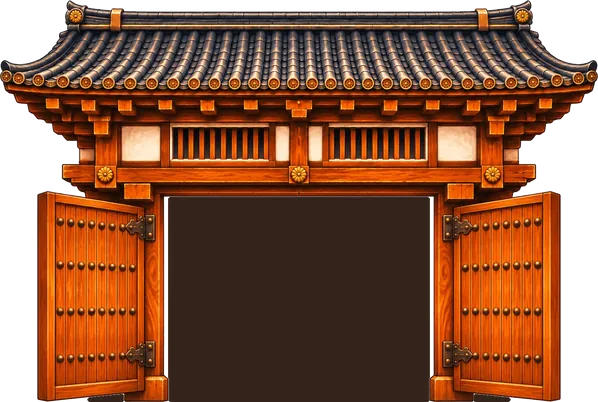
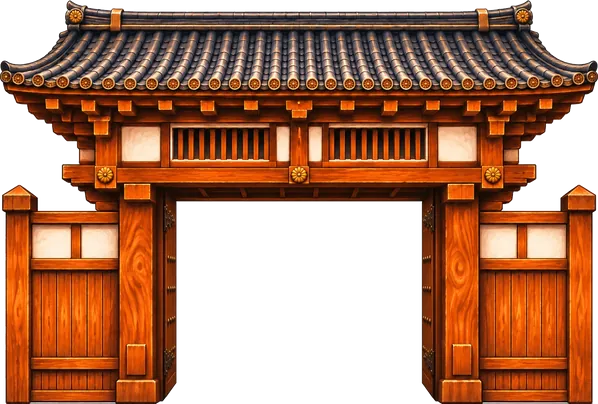
城の門が、奥へ開くアニメーションにする
- 門の絵を、奥へ開く絵に替えた（castlegate-open）。半分開いた絵（castlegate-half）を足した
- 印が全部そろったあと、はじめて門の前に来たとき（暗転・話・演出が終わってから）、閉 → 半分 → 開、と開く。1 周に 1 回
- 門の中（絵の透明なところ）に、城の中の景色（空・遠くの天守・奥へ続く道）を描く
- 音のきっかけ gateopen（門が開きはじめた）を足した

Claude-Session: https://claude.ai/code/session_01U9i96bNyCLMGvYMbYha5MW

diff --git a/src/ui/SekishoTown.tsx b/src/ui/SekishoTown.tsx
@@ -55,7 +55,7 @@ export interface SekishoTownProps {
   onSave?: (save: TownSave) => void
   /**
    * 建物・木などを、絵（画像）に差し替える。pieces は、種類（Piece.kind。'shop'・'inn'・'kura' など）→ 絵の URL。
-   * 書いた種類だけが絵になり、ほかは部品が形から描く。城の門が開いた絵は 'castlegate-open'。
+   * 書いた種類だけが絵になり、ほかは部品が形から描く。城の門が開いた絵は 'castlegate-open'、半分開いた絵は 'castlegate-half'。
    * 関所の絵は 'gate-open'（開いている）・'gate-locked'（まだ開かない）・'gate-cleared'（こえた）。
    * pixelated を true にすると、ドット絵をぼかさずに大きくする
    */
@@ -138,7 +138,7 @@ export function SekishoTown({
   // ─── ゲームの今（描くたびに変わるものは ref） ───
   const worldRef = useRef<World>({ area: town.start.area, player: newActor(town.start.x) })
   const input = useRef({ keys: new Set<string>(), stick: { x: 0, y: 0 }, act: false, jump: false })
-  const fx = useRef({ t: 0, fade: 0, emote: '', emoteUntil: 0, bang: 0, blockedAt: -9, stepIn: 0, stride: 0 })
+  const fx = useRef({ t: 0, fade: 0, emote: '', emoteUntil: 0, bang: 0, blockedAt: -9, stepIn: 0, stride: 0, gateAt: -1 })
   const [areaId, setAreaId] = useState(town.start.area)
   const [near, setNear] = useState<{ id: string; kind: string } | null>(null)
   const [dialog, setDialog] = useState<{ lines: Line[]; onEnd?: () => void } | null>(null)
@@ -421,8 +421,8 @@ export function SekishoTown({
     }
     return { images, pixelated: art?.pixelated }
   }, [art, artImages])
-  const live = useRef({ sound, soundEnter, pieceArt, gates, npcs, complete, finaleDone, course, lap, images, cast, labels, town, startFinale, reduced: false })
-  live.current = { ...live.current, sound, soundEnter, pieceArt, gates, npcs, complete, finaleDone, course, lap, images, cast, labels, town, startFinale }
+  const live = useRef({ addFlag, sound, soundEnter, pieceArt, gates, npcs, complete, finaleDone, course, lap, images, cast, labels, town, startFinale, reduced: false })
+  live.current = { ...live.current, addFlag, sound, soundEnter, pieceArt, gates, npcs, complete, finaleDone, course, lap, images, cast, labels, town, startFinale }
 
   useEffect(() => {
     const m = window.matchMedia?.('(prefers-reduced-motion: reduce)')
@@ -461,8 +461,9 @@ export function SekishoTown({
     ro.observe(root)
     fit()
 
-    const backdropOf = (area: Area, gateOpen: boolean) => {
-      const key = `${area.id}|${gateOpen}`
+    const backdropOf = (area: Area, gate: 0 | 1 | 2) => {
+      const gateOpen = gate === 2
+      const key = `${area.id}|${gate}`
       let b = backdrops.current.get(key)
       if (!b) {
         b = document.createElement('canvas')
@@ -472,7 +473,7 @@ export function SekishoTown({
         b.height = Math.ceil(VIEW_H * k)
         const bc = b.getContext('2d')!
         bc.scale(k, k)
-        drawBackdrop(bc, area, { gateOpen }, live.current.pieceArt)
+        drawBackdrop(bc, area, { gateOpen, gate }, live.current.pieceArt)
         for (const e of area.exits) {
           const to = live.current.town.areas.find((a) => a.id === e.to)
           drawExitSign(bc, area, e, to?.name ?? '', !!e.lock && !gateOpen, live.current.pieceArt.images)
@@ -559,7 +560,26 @@ export function SekishoTown({
       c.setTransform(size.k, 0, 0, size.k, 0, 0)
       c.clearRect(0, 0, size.viewW, VIEW_H)
       drawSky(c, area, size.viewW, camX, L.pieceArt.images.get('mountains'))
-      const b = backdropOf(area, L.complete)
+      // 城の門: 印が全部そろったあと、はじめて門の前に来たとき（話や演出が終わってから）、閉 → 半分 → 開、と開く
+      let gate: 0 | 1 | 2 = L.complete ? 2 : 0
+      if (L.complete && L.course && area.exits.some((e) => e.lock === 'finale')) {
+        const key = flagKey(L.course.id, L.lap, 'gate')
+        if (f.gateAt < 0 && !saveRef.current.flags?.includes(key)) {
+          gate = 0
+          // 通りに入ったときの暗転が明けて、話や演出も終わってから、開きはじめる
+          if (!busyRef.current && f.fade <= 0) {
+            f.gateAt = f.t
+            L.addFlag('gate')
+            L.sound({ name: 'gateopen' })
+          }
+        }
+        if (f.gateAt >= 0) {
+          const dt2 = f.t - f.gateAt
+          gate = L.reduced || dt2 > 1.1 ? 2 : dt2 > 0.45 ? 1 : 0
+          if (gate === 2) f.gateAt = -1
+        }
+      }
+      const b = backdropOf(area, gate)
       const bk = b.width / area.width
       c.drawImage(b, Math.max(0, camX) * bk, 0, Math.min(size.viewW, area.width) * bk, b.height, Math.max(0, -camX), 0, Math.min(size.viewW, area.width), VIEW_H)
       if (camX < 0) {

diff --git a/src/ui/draw.ts b/src/ui/draw.ts
@@ -784,6 +784,46 @@ function open(c: Ctx, p: P) {
 
 // ─── 絵に差し替えたとき ─────────────────────────────────────
 
+/** 開いた城の門の向こうに見える、城の中（明るい空・遠くの天守・奥へ続く道）。h は、門の絵の高さ */
+function courtyard(c: Ctx, p: P, h: number) {
+  const x = p.x + p.w * 0.27
+  const w = p.w * 0.46
+  const y = BASE_Y - h * 0.54
+  const cx = x + w / 2
+  c.save()
+  c.beginPath()
+  c.rect(x, y, w, BASE_Y - y)
+  c.clip()
+  const sky = c.createLinearGradient(0, y, 0, BASE_Y)
+  sky.addColorStop(0, '#bcdbe6')
+  sky.addColorStop(0.7, '#f4ead0')
+  c.fillStyle = sky
+  c.fillRect(x, y, w, BASE_Y - y)
+  // 遠くの天守
+  c.fillStyle = '#9fb3b4'
+  for (const [half, top, tall] of [
+    [15, 0.36, 0.3],
+    [11, 0.24, 0.14],
+    [7, 0.14, 0.12],
+  ]) {
+    const ty = y + (BASE_Y - y) * top
+    c.fillRect(cx - half * 0.7, ty, half * 1.4, (BASE_Y - y) * tall)
+    shape(c, [cx - half, ty, cx + half, ty, cx + half * 0.55, ty - 5, cx - half * 0.55, ty - 5], '#8ea3a6', false)
+  }
+  // 地面と、奥へ続く道
+  const gy = y + (BASE_Y - y) * 0.66
+  c.fillStyle = '#d9c9a4'
+  c.fillRect(x, gy, w, BASE_Y - gy)
+  shape(c, [cx - w * 0.36, BASE_Y, cx + w * 0.36, BASE_Y, cx + w * 0.1, gy, cx - w * 0.1, gy], '#e6d8b6', false)
+  // 門のかげ（上と左右）
+  const shade = c.createLinearGradient(0, y, 0, y + (BASE_Y - y) * 0.4)
+  shade.addColorStop(0, 'rgba(45, 28, 16, 0.55)')
+  shade.addColorStop(1, 'rgba(45, 28, 16, 0)')
+  c.fillStyle = shade
+  c.fillRect(x, y, w, (BASE_Y - y) * 0.4)
+  c.restore()
+}
+
 /** 横にくり返して並べる絵と、その高さ */
 const ART_TILES: Record<string, number> = { stonewall: 62, wall: 80 }
 
@@ -903,7 +943,8 @@ export function drawSky(c: Ctx, area: Area, viewW: number, shift: number, mounta
 export function drawBackdrop(
   c: Ctx,
   area: Area,
-  state: { gateOpen: boolean },
+  /** gateOpen: 城の門が開いているか。gate: 開いていく途中のこま（0 閉じている・1 半分・2 開いた。無ければ gateOpen から決める） */
+  state: { gateOpen: boolean; gate?: 0 | 1 | 2 },
   /** 建物などを、絵（画像）に差し替える。種類（Piece.kind）→ 絵。あるものは、形から描かずに絵を置く */
   art?: { images: Map<string, CanvasImageSource & { width: number; height: number }>; pixelated?: boolean },
 ) {
@@ -938,8 +979,12 @@ export function drawBackdrop(
   c.fillRect(0, BASE_Y - 2, area.width, 5)
 
   for (const p of area.row) {
-    const img = art?.images.get(p.kind === 'castlegate' && state.gateOpen && art.images.has('castlegate-open') ? 'castlegate-open' : p.kind)
+    const gate = p.kind === 'castlegate' ? (state.gate ?? (state.gateOpen ? 2 : 0)) : 0
+    const gateArt = gate === 2 ? 'castlegate-open' : gate === 1 ? (art?.images.has('castlegate-half') ? 'castlegate-half' : 'castlegate-open') : ''
+    const img = art?.images.get(gateArt && art.images.has(gateArt) ? gateArt : p.kind)
     if (img) {
+      // 開いた城の門: 門の中（絵の透明なところ）に、城の中の景色を描く
+      if (gate > 0) courtyard(c, p, (p.w * img.height) / img.width)
       // 川の景色では、絵の後ろに川を描く
       if (area.scene === 'river') river(c, p)
       c.imageSmoothingEnabled = !art?.pixelated

diff --git a/src/ui/sound.ts b/src/ui/sound.ts
@@ -10,6 +10,7 @@
  * - talk: 話を 1 つ進めた（文字送り）
  * - found: 関所を見つけた　- gate: 関所の板を開いた　- locked: 開かない関所・門
  * - check: 項目が 1 つ進んだ　- clear: 関所をこえた（印）　- complete: 印が全部そろった（城の門が開く）
+ * - gateopen: 城の門が、開きはじめた（印が全部そろったあと、門の前に来たとき。1 周に 1 回）
  * - finale: 城で、ご褒美が始まる
  * - enter: 通りに入った（area・scene。曲や町の音を切りかえるのに使う。ゲームを始めたときにも来る）
  * - pause・resume: 止めた・また動かした（アプリが上に練習の画面を出している間など）
@@ -25,6 +26,7 @@ export type SoundName =
   | 'check'
   | 'clear'
   | 'complete'
+  | 'gateopen'
   | 'finale'
   | 'enter'
   | 'pause'

diff --git a/scripts/make_town_art.py b/scripts/make_town_art.py
@@ -26,7 +26,7 @@ def unit_widths():
     body = text[text.index('ART_WIDTHS') :]
     body = body[: body.index('}')]
     w = {k: int(v) for k, v in re.findall(r"(\w+): (\d+)", body)}
-    w['castlegate-open'] = w['castlegate']
+    w['castlegate-open'] = w['castlegate-half'] = w['castlegate']
     for k in ('gate-open', 'gate-locked', 'gate-cleared'):
         w[k] = 96  # draw.ts の GATE_ART_W
     w['water'] = 52 * 3  # 川の水（draw.ts の river。高さ 52）
@@ -65,7 +65,9 @@ ART = {
     'jizo': {},
     'bridge': {'holes': True},
     'bridge-side': {'holes': True},
-    'castlegate-open': {'door': True},
+    # 開いた門・半分開いた門（扉は、奥へ開く）。門の中は透明にして、城の中の景色を、部品が後ろに描く
+    'castlegate-open': {},
+    'castlegate-half': {},
     'wall': {},
     'alley': {},
     'pinewall': {'pinewall': True, 'holes': True},

diff --git a/README.md b/README.md
@@ -129,6 +129,7 @@ const player = createSoundPlayer({
 | `found` | 関所を見つけた |
 | `gate` / `locked` | 関所の板を開いた／開かない関所・門 |
 | `check` / `clear` / `complete` | 項目が進んだ／関所をこえた／印が全部そろった |
+| `gateopen` | 城の門が、開きはじめた（1 周に 1 回） |
 | `finale` | 城で、ご褒美が始まる |
 | `enter` | 通りに入った（`area`・`scene`。曲や町の音を切りかえる。始めたときにも来る） |
 | `pause` / `resume` / `leave` | 止めた／また動かした／町を出た |
@@ -156,7 +157,7 @@ const player = createSoundPlayer({
    <SekishoTown town={town} art={{ pieces }} … />
    ```
 
-   - 絵は、幅を部品の幅に合わせ、足もとをそろえて置きます（背景は透明に）。城の門が開いた絵は `castlegate-open`
+   - 絵は、幅を部品の幅に合わせ、足もとをそろえて置きます（背景は透明に）。城の門が開いた絵は `castlegate-open`、半分開いた絵は `castlegate-half`（印が全部そろったあと、はじめて門の前に来たときに、閉 → 半分 → 開、と開く。門の中の透明なところには、城の中の景色を部品が描く）
    - 道しるべは `signpost`（矢印の板。左向きは、うら返す）と `tatefuda`（立て札）、路地は `alley`、川の向こう岸の家並みは `farbank`（横にくり返す）。通りの名前は、部品が板に描き足す
    - 川の水は `water`、川岸の草は `reeds`、遠くの山なみは `mountains`（どれも横にくり返す）
    - 関所の絵は `gate-open`・`gate-locked`・`gate-cleared`（番号・のぼりの文字・印は、部品が上から描き足す）
